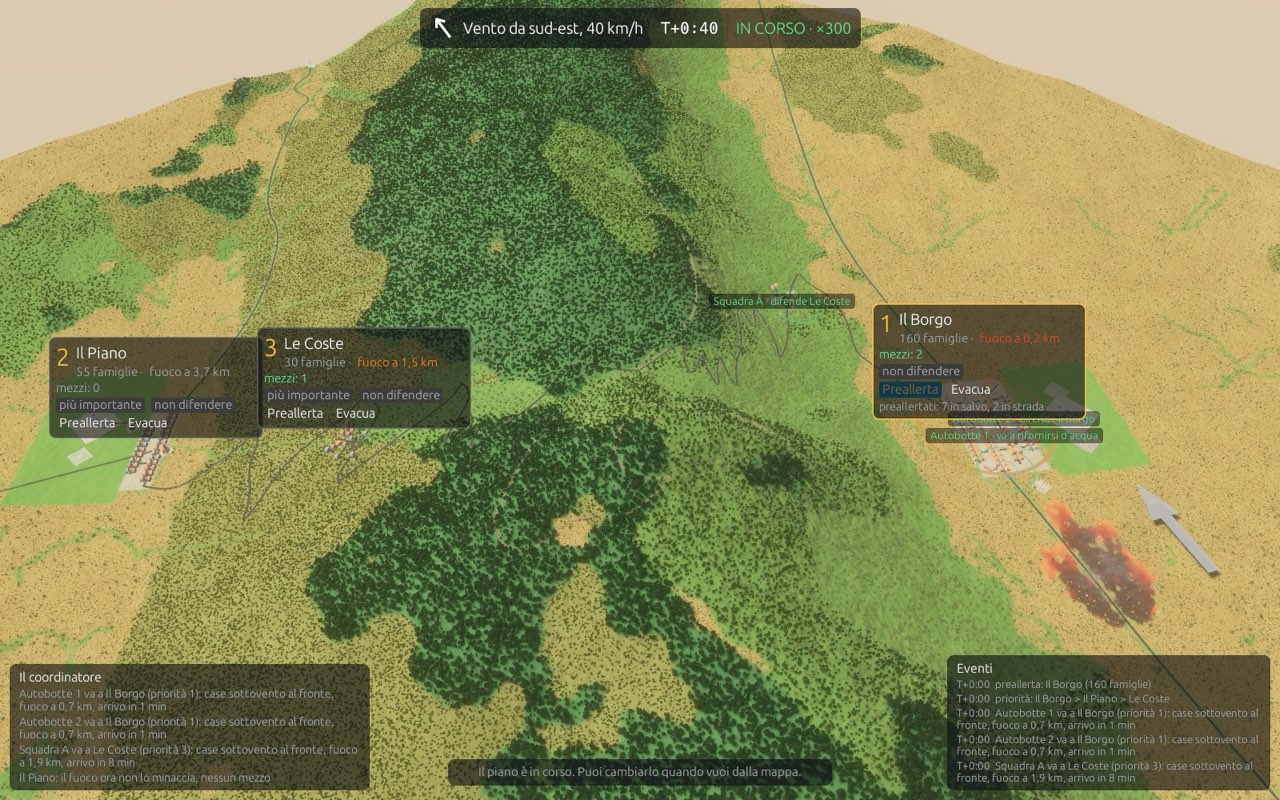
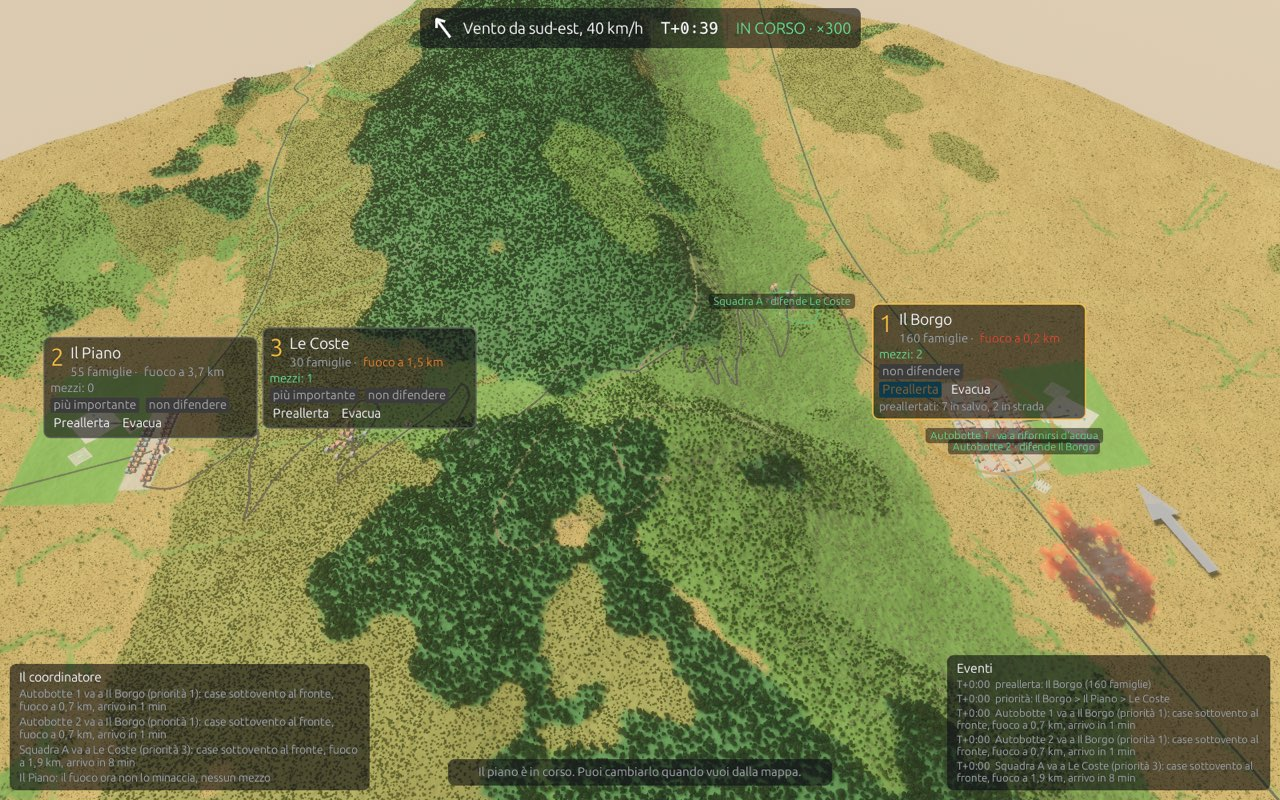
Kiosk: separate overlapping district chips, stack unit labels clear of chips
Claude-Session: https://claude.ai/code/session_01GuRRdHfgdnrr6vtQJBF8fY

Changed region(s): [[0.0312, 0.4062, 0.375, 0.5625], [0.7188, 0.5, 0.875, 0.5938], [0.5312, 0.0312, 0.5625, 0.0625]]

diff --git a/crates/game/src/kiosk/ui.rs b/crates/game/src/kiosk/ui.rs
@@ -165,15 +165,54 @@ fn district_chips(ctx: &egui::Context, k: &mut Kiosk, sim: &Sim, cam: (&Camera, 
     let mut order = k.proposed.priorities.clone();
     let mut civil = k.proposed.civil.clone();
     let mut changed = false;
-    for d in 0..n {
-        let dist = &sim.districts[d];
-        let Some(mut at) = screen(cam, sim, chip_anchor(sim, d), 40.0) else { continue };
-        let id = egui::Id::new(("quartiere", d));
-        // Keep the whole chip on screen and clear of the top band and the
-        // button: its size is last frame's.
-        let size = ctx.memory(|m| m.area_rect(id)).map_or(egui::vec2(260.0, 150.0), |r| r.size());
+    // Where each chip stands (bottom centre) and how big it was last frame.
+    let mut place: Vec<Option<(egui::Pos2, egui::Vec2)>> = (0..n)
+        .map(|d| {
+            let at = screen(cam, sim, chip_anchor(sim, d), 40.0)?;
+            let size = ctx.memory(|m| m.area_rect(egui::Id::new(("quartiere", d)))).map_or(egui::vec2(260.0, 150.0), |r| r.size());
+            Some((at, size))
+        })
+        .collect();
+    // Keep the whole chip on screen and clear of the top band and the button.
+    let clamp = |at: &mut egui::Pos2, size: egui::Vec2| {
         at.x = at.x.clamp(screen_rect.left() + size.x * 0.5 + 8.0, screen_rect.right() - size.x * 0.5 - 8.0);
         at.y = at.y.clamp(top + size.y + 8.0, screen_rect.bottom() - 100.0);
+    };
+    for (at, size) in place.iter_mut().flatten() {
+        clamp(at, *size);
+    }
+    // Two places close on screen: push their chips apart along the shorter
+    // overlap, a few passes.
+    for _ in 0..6 {
+        for a in 0..n {
+            for b in a + 1..n {
+                let (Some((pa, sa)), Some((pb, sb))) = (place[a], place[b]) else { continue };
+                let ox = (sa.x + sb.x) * 0.5 + 8.0 - (pa.x - pb.x).abs();
+                let oy = (sa.y + sb.y) * 0.5 + 8.0 - (pa.y - pb.y).abs();
+                if ox <= 0.0 || oy <= 0.0 {
+                    continue;
+                }
+                let (mut pa, mut pb) = (pa, pb);
+                if ox < oy {
+                    let s = if pa.x <= pb.x { -0.5 } else { 0.5 };
+                    pa.x += s * ox;
+                    pb.x -= s * ox;
+                } else {
+                    let s = if pa.y <= pb.y { -0.5 } else { 0.5 };
+                    pa.y += s * oy;
+                    pb.y -= s * oy;
+                }
+                clamp(&mut pa, sa);
+                clamp(&mut pb, sb);
+                place[a] = Some((pa, sa));
+                place[b] = Some((pb, sb));
+            }
+        }
+    }
+    for d in 0..n {
+        let dist = &sim.districts[d];
+        let Some((at, _)) = place[d] else { continue };
+        let id = egui::Id::new(("quartiere", d));
         let rank = order.iter().position(|&x| x == d);
         egui::Area::new(id).fixed_pos(at).pivot(Align2::CENTER_BOTTOM).show(ctx, |ui| {
             let border = if rank == Some(0) { AMBER } else { Color32::from_gray(90) };
@@ -253,11 +292,22 @@ fn district_chips(ctx: &egui::Context, k: &mut Kiosk, sim: &Sim, cam: (&Camera, 
 
 /// A label over each ground unit: its name and what it is doing.
 fn unit_labels(ctx: &egui::Context, sim: &Sim, cam: (&Camera, &GlobalTransform)) {
+    // Units standing together (at the base, on one post) stack their labels.
+    let mut shown: Vec<egui::Pos2> = vec![];
     for (i, u) in sim.crews.units.iter().enumerate() {
         if u.kind.is_air() {
             continue;
         }
-        let Some(at) = screen(cam, sim, u.pos, 35.0) else { continue };
+        let Some(ground) = screen(cam, sim, u.pos, 35.0) else { continue };
+        // Under a district's chip (last frame's): read it just below the chip.
+        let ground = (0..sim.districts.len())
+            .filter_map(|d| ctx.memory(|m| m.area_rect(egui::Id::new(("quartiere", d)))))
+            .find(|r| r.expand(4.0).intersects(egui::Rect::from_center_size(ground - egui::vec2(0.0, 9.0), egui::vec2(200.0, 18.0))))
+            .map_or(ground, |r| egui::pos2(ground.x, r.bottom() + 24.0));
+        // a label is about 200 px wide and 18 tall
+        let below = shown.iter().filter(|p| (p.x - ground.x).abs() < 200.0 && (p.y - ground.y).abs() < 18.0).count();
+        shown.push(ground);
+        let at = ground + egui::vec2(0.0, 20.0 * below as f32);
         let status = sim.unit_status(i);
         let colour = if status.starts_with("bloccato") || status.starts_with("fuori") { RED } else if status.starts_with("si ritira") { ORANGE } else { GREEN };
         egui::Area::new(egui::Id::new(("mezzo", i))).fixed_pos(at).pivot(Align2::CENTER_BOTTOM).interactable(false).order(egui::Order::Background).show(ctx, |ui| {

diff --git a/docs/fase5/README.md b/docs/fase5/README.md
@@ -52,6 +52,7 @@ La partita scriptata (`KIOSK_SHOT`) va da pianificazione e anteprima a esecuzion
 | ![](img/coste2_gira_1_pianifica.jpg) Pianifica | ![](img/coste2_gira_2_anteprima.jpg) Anteprima: rotte tratteggiate |
 | ![](img/coste2_gira_3b_crisi.jpg) Crisi ×1 | ![](img/coste2_gira_4_fine.jpg) Debrief |
 | ![](img/piano2_4_fine.jpg) Piano2: 21 case in meno | ![](img/coste2_gira_5_altro_incendio.jpg) Dopo «Altro incendio», scena pulita |
+| ![](img/borgo2_3_esegui.jpg) Borgo2 in corso: schede separate | |
 
 **FPS** (Apple M4 Pro, finestra 1600×1000, Retina):
 
@@ -69,7 +70,7 @@ Non dipende dalla risoluzione (stessi FPS a 1 pixel per punto), ma da quanta veg
 ## 3. Non risolto
 
 - **Coordinatore alla crisi di Coste2_gira:** con Il Piano in testa, un'autobotte lascia Le Coste e rientra alla base, perché Il Piano non è raggiungibile in quel momento. Ora è spiegato a schermo. Ho provato a mandarla invece al quartiere successivo: l'effetto della crisi spariva (58 → 71 case colpite), perché è il rientro a renderla utile dopo. Ho annullato la prova.
-- **Schede sovrapposte:** possono coprirsi a vicenda o coprire il fuoco quando due luoghi sono vicini sullo schermo (Le Coste / Il Piano in Borgo2). Le etichette dei mezzi si sovrappongono alla base.
+- **Schede e fuoco:** le schede ora si separano tra loro e le etichette dei mezzi si impilano; una scheda può però ancora coprire il fuoco.
 - **FPS:** prestazioni non ottimizzate, come richiesto; da rivedere in fase 6 sulla macchina del chiosco.
 - **Non visto da una persona al mouse:** primo approccio, leggibilità delle schede a ×20 e tempo di pianificazione (oggi senza limite).
 

diff --git a/docs/TODO.md b/docs/TODO.md
@@ -76,7 +76,7 @@ Aggiornare a ogni iterazione (vedi `CLAUDE.md`). Fase corrente in cima.
 - [x] 2026-10-08 Crisi: «scoperto» solo se il fuoco può arrivare entro 45 min (`URGENT_S`); nessuna crisi negli ultimi 10 min (`LAST_CALL_S`).
 - [x] 2026-10-08 Inquadratura calcolata (case + innesco nella zona libera, yaw ±50°); corretto il trigger che non scattava (il gioco parte a T+6 s).
 - [ ] **Checkpoint umano 5.**
-- [ ] Schede dei quartieri che si sovrappongono tra loro o al fuoco; etichette dei mezzi sovrapposte alla base.
+- [x] 2026-10-08 Schede dei quartieri separate quando si sovrappongono sullo schermo; etichette dei mezzi impilate e spostate sotto la scheda che le copre. Resta: una scheda può coprire il fuoco.
 - [ ] Coordinatore: con la prima priorità irraggiungibile un mezzo rientra alla base (ora spiegato a schermo). Mandarlo al quartiere successivo annullava l'effetto della crisi in Coste2_gira (58 → 71): provato e annullato.
 - [ ] Tempo di pianificazione senza limite: decidere nei playtest se serve (spec: ~40 s indicativi).
 - [ ] FPS circa 40 su M4 Pro con vegetazione dimezzata: misurare sulla macchina del chiosco (fase 6).
